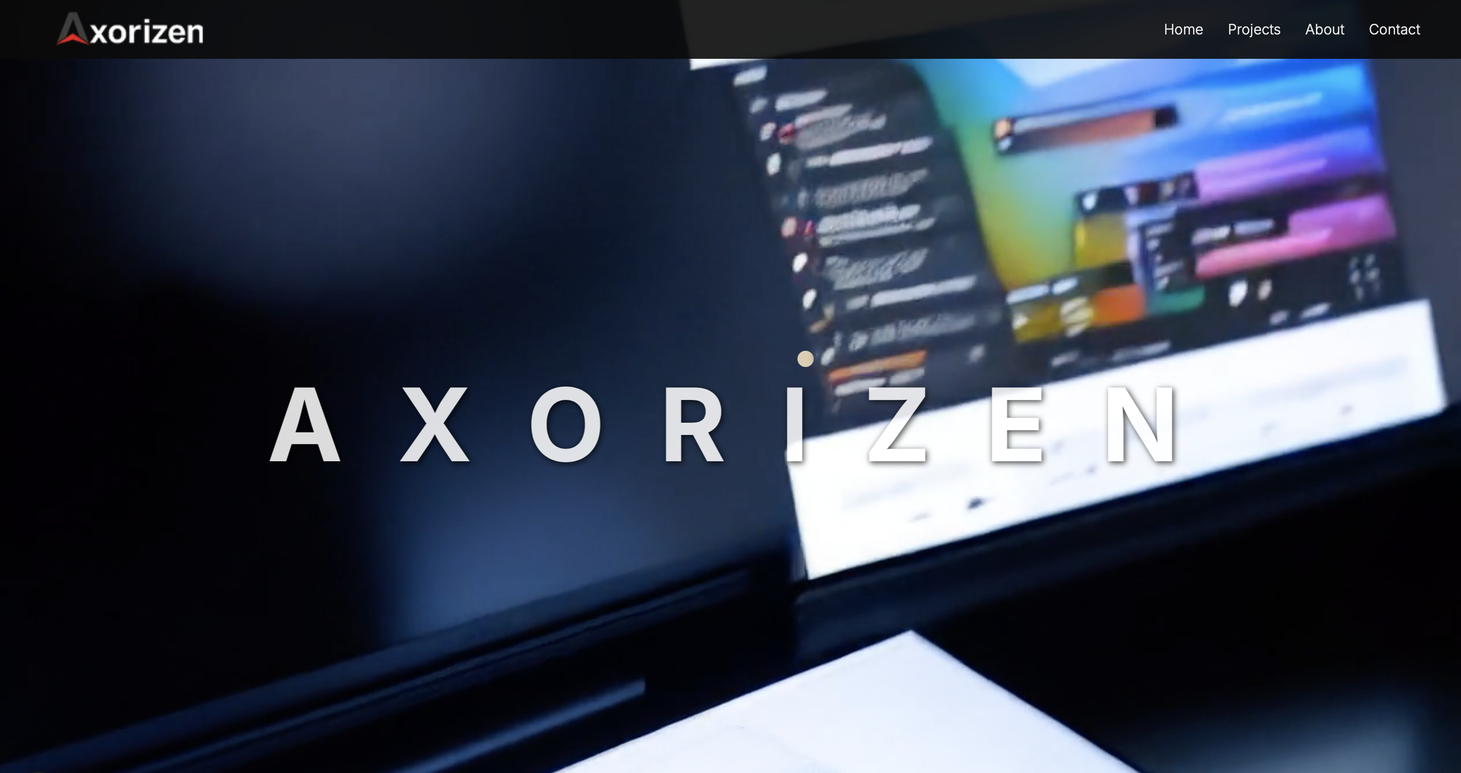
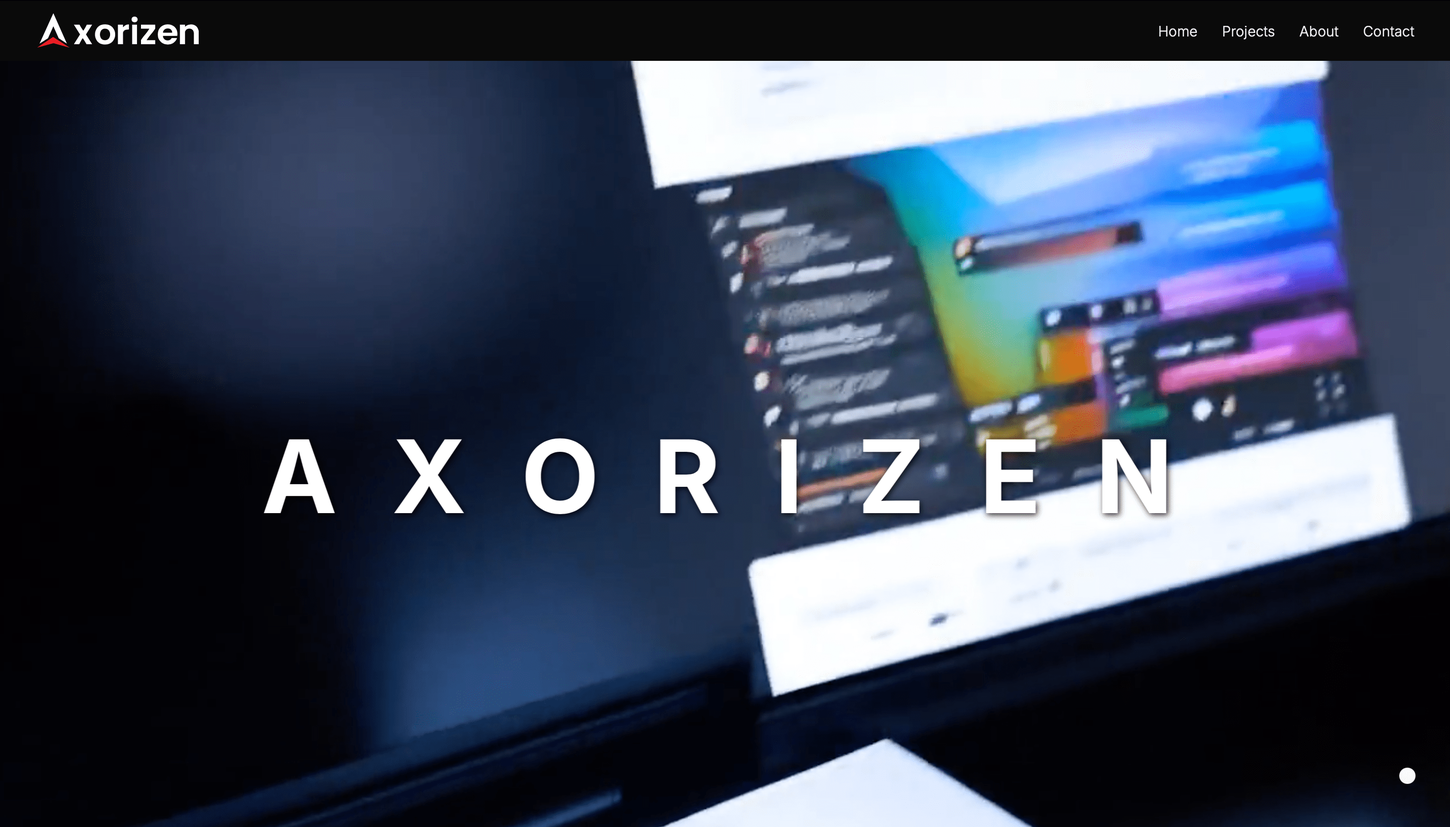
fix navbar

diff --git a/src/app/head.tsx b/src/app/head.tsx
@@ -2,8 +2,12 @@ export default function Head() {
   return (
     <>
       <title>Axorizen</title>
-      <meta name="description" content="Professional web design and digital marketing services tailored for your brand." />
-      <meta name="viewport" content="width=device-width, initial-scale=1" />
+        <meta name="description" content="Professional web design and digital marketing services tailored for your brand." />
+        <meta name="viewport" content="width=device-width, initial-scale=1" />
+        <meta property="og:title" content="About - Axorizen" /> {/* عنوان برای Open Graph */}
+        <meta property="og:image" content="/images/og-image.jpg" /> {/* تصویر نمایشی Open Graph */}
+        <meta name="twitter:card" content="summary_large_image" /> {/* Twitter Card */}
+        <meta name="twitter:image" content="/images/og-image.jpg" /> {/* تصویر Twitter Card */}
     </>
   );
 }

diff --git a/src/app/layout.tsx b/src/app/layout.tsx
@@ -13,7 +13,7 @@ import Cookies from "js-cookie";
 
 const inter = Inter({ subsets: ["latin"] });
 
-// متادیتا در src/app/head.tsx باید باشه (نه اینجا)
+
 
 declare global {
   interface Window {
